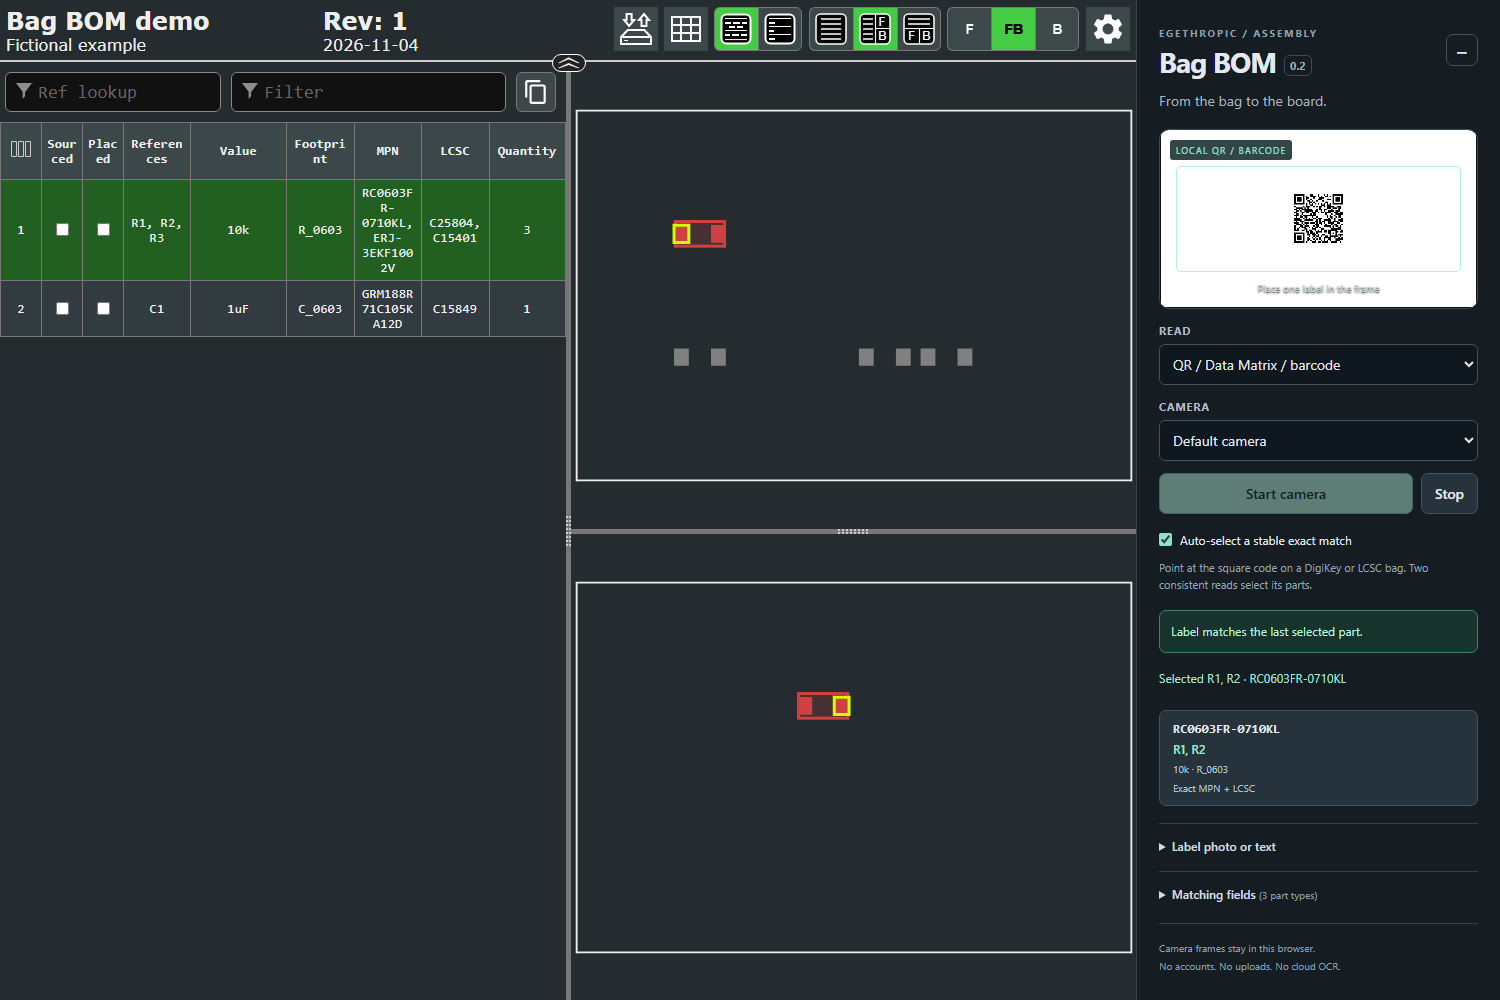
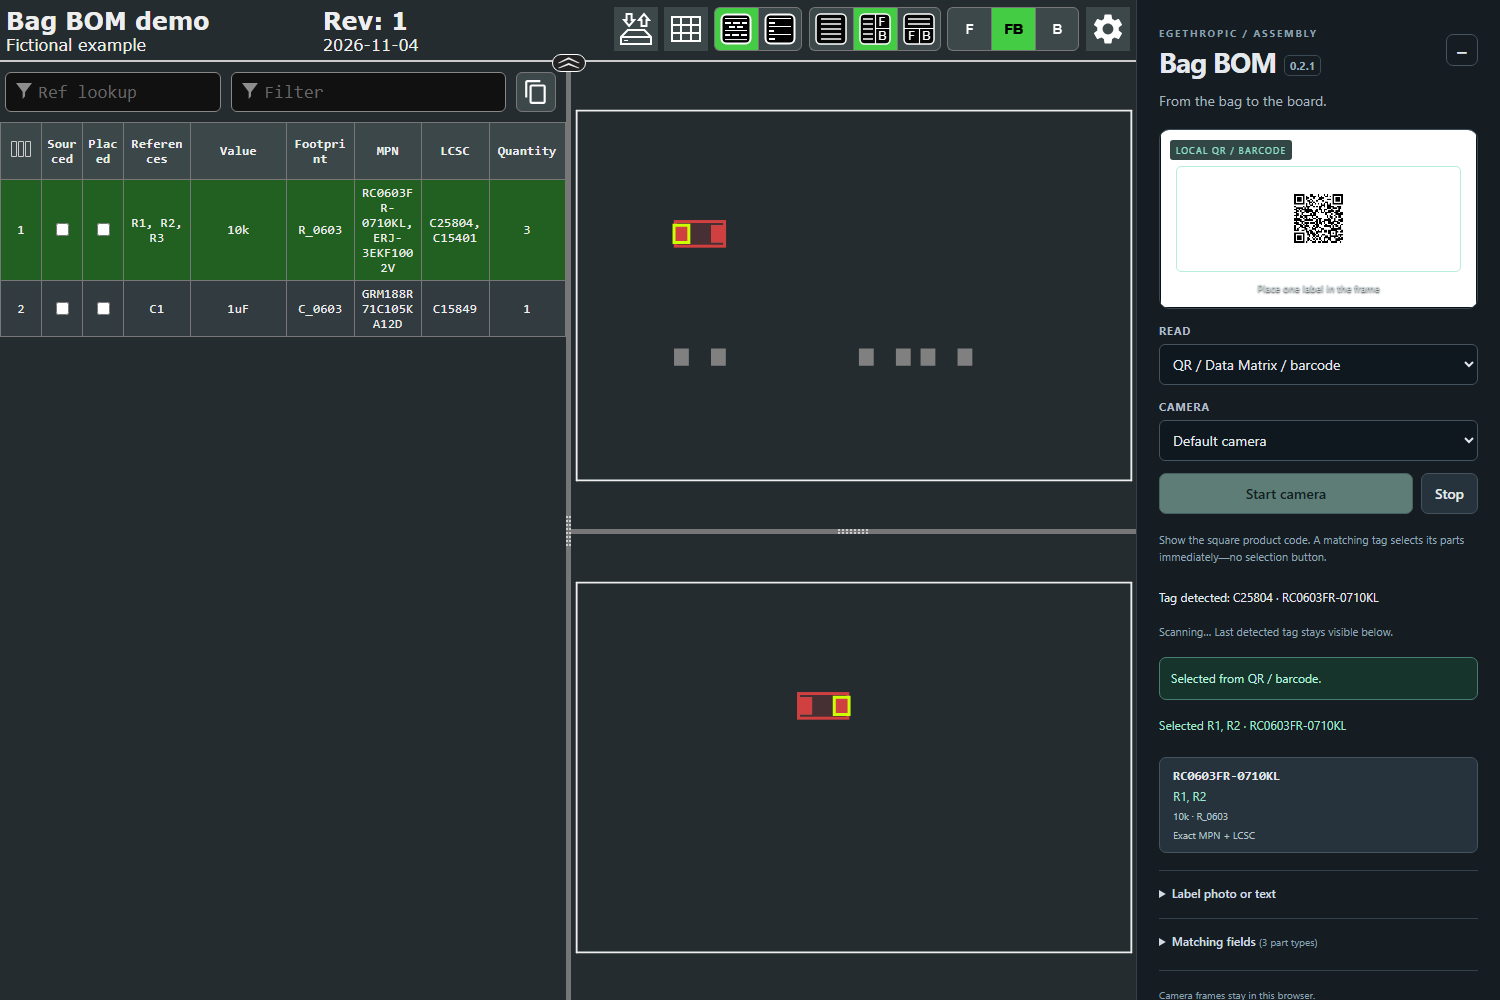
Select decoded tags immediately and retain detection feedback [skip ci]

Changed region(s): [[0.7667, 0.527, 1.0, 0.899], [0.7667, 0.93, 0.8893, 1.0]]

diff --git a/bag_bom/web/scanner.js b/bag_bom/web/scanner.js
@@ -9,7 +9,7 @@
   root.innerHTML = `
     <link rel="stylesheet" href="${base}scanner.css">
     <aside aria-label="Bag BOM scanner">
-      <header><div><small>EGETHROPIC / ASSEMBLY</small><h1>Bag BOM<span>0.2</span></h1></div>
+      <header><div><small>EGETHROPIC / ASSEMBLY</small><h1>Bag BOM<span>0.2.1</span></h1></div>
         <button id="collapse" class="icon" aria-label="Minimize scanner" title="Minimize scanner">−</button></header>
       <div id="body">
         <p class="intro">From the bag to the board.</p>
@@ -23,8 +23,10 @@
         <label class="field-label" for="camera">Camera</label>
         <select id="camera"><option value="">Default camera</option></select>
         <div class="actions"><button id="start" class="primary">Start camera</button><button id="stop" disabled>Stop</button></div>
-        <label class="toggle"><input type="checkbox" id="auto" checked> Auto-select a stable exact match</label>
-        <p class="hint">Point at the square code on a DigiKey or LCSC bag. Two consistent reads select its parts.</p>
+        <label class="toggle" id="auto-control" hidden><input type="checkbox" id="auto" checked> Auto-select stable OCR matches</label>
+        <p class="hint" id="mode-hint">Show the square product code. A matching tag selects its parts immediately—no selection button.</p>
+        <div id="detected" hidden></div>
+        <div id="scan-state" class="hint"></div>
         <div id="status" role="status" aria-live="polite">Loading the BOM…</div>
         <div id="selected" hidden></div>
         <div id="results" aria-label="Matching components"></div>
@@ -57,6 +59,7 @@
 
   let index = [], ready = false, stream = null, workerPromise = null;
   let epoch = 0, timer = null, busy = false, lastAuto = null;
+  let lastCodeStatus = null;
   let ocrQueue = Promise.resolve();
   let decoder = null, decodeId = 0;
   const decodeJobs = new Map();
@@ -67,6 +70,7 @@
     index = M.buildIndex(pcbdata, config.fields,
       [...$('fields').querySelectorAll('input:checked')].map(input => input.value));
     gate.reset(); lastAuto = null;
+    lastCodeStatus = null; $('detected').hidden = true;
     $('results').replaceChildren();
     $('field-count').textContent = `(${index.length} part types)`;
     setStatus(index.length ? `${index.length} part types ready. Start the camera or paste a label.` :
@@ -117,17 +121,24 @@
   }
   function showResult(text, {confidence = 100, live = false, barcode = false, payloads = [text]} = {}) {
     const result = barcode ? B.match(payloads, index) : M.match(text, index);
+    if (barcode) {
+      const typed = result.identifiers.filter(id => id.type !== 'any');
+      const ids = [...new Set((typed.length ? typed : result.identifiers).map(id => id.value))];
+      $('detected').hidden = false;
+      $('detected').textContent = `Tag detected: ${ids.length ? ids.join(' · ') : 'unrecognized product data'}`;
+    }
     $('results').replaceChildren();
     const matches = result.exact.length ? result.exact : result.suggestions;
     for (const {group, evidence} of matches.slice(0, 12)) {
-      const button = document.createElement('button'); button.className = 'candidate';
+      const automatic = barcode && result.status === 'unique';
+      const button = document.createElement(automatic ? 'div' : 'button'); button.className = 'candidate';
       const title = document.createElement('b'); title.textContent = evidence[0]?.value || group.ids[0].value;
       const refs = document.createElement('span'); refs.textContent = group.refs.map(r => r[0]).join(', ');
       const detail = document.createElement('small'); detail.textContent = `${group.value} · ${group.footprint}`;
       const reason = document.createElement('small'); reason.textContent = evidence.length ?
         `Exact ${evidence.map(item => item.field).join(' + ')}` : 'Similar text only — check label before selecting';
       button.append(title, refs, detail, reason);
-      button.addEventListener('click', () => { select(group); button.classList.add('chosen'); });
+      if (!automatic) button.addEventListener('click', () => { select(group); button.classList.add('chosen'); });
       $('results').append(button);
     }
     if (result.status === 'ambiguous') setStatus('Multiple matching part types. Choose the correct one below.', 'warning');
@@ -138,7 +149,15 @@
       'No exact match. Similar numbers below require your confirmation.' :
       'No exact part number found. Hold the label closer or check the matching fields.');
     else setStatus(live ? 'Exact match found. Hold steady for a second read.' : 'Exact match found. Select it below.');
-    if (live) {
+    if (barcode && result.status === 'unique') {
+      // Barcode checksums already validate a decoded tag. Select on its FIRST
+      // frame, independent of the optional OCR stability gate and toggle.
+      const group = result.exact[0].group;
+      const actual = new Set(window.highlightedFootprints || []);
+      if (lastAuto !== group.key || actual.size !== group.refs.length || group.refs.some(([, id]) => !actual.has(id))) {
+        select(group, 'Selected from QR / barcode.');
+      } else setStatus('Selected from QR / barcode.', 'success');
+    } else if (live && !barcode) {
       const stable = gate.observe(result, confidence);
       if (stable && $('auto').checked) {
         if (stable.key !== lastAuto) select(stable, barcode ? 'Selected from QR / barcode.' : true);
@@ -146,9 +165,8 @@
       } else if (result.status === 'unique' && confidence < 75) {
         setStatus('Exact text, but OCR confidence is low. Hold steady or select manually.', 'warning');
       }
-    } else if (barcode && result.status === 'unique' && $('auto').checked) {
-      select(result.exact[0].group, 'Selected from QR / barcode.');
     }
+    if (barcode) lastCodeStatus = {text: $('status').textContent, kind: $('status').dataset.kind};
     return result;
   }
   function releaseDecoder() {
@@ -179,10 +197,15 @@
   }
   function showCodes(codes, live = false) {
     if (!codes.length) {
-      gate.reset(); $('results').replaceChildren(); $('text').value = '';
-      setStatus('No QR / barcode detected yet. Keep the complete square code in focus inside the guide.');
+      gate.reset();
+      $('scan-state').textContent = live ? 'Scanning… Last detected tag stays visible below.' : 'No code found in this image.';
+      // A missed frame must not immediately erase a successful read or the
+      // explanation of why a decoded tag could not match the current board.
+      if (lastCodeStatus) setStatus(lastCodeStatus.text, lastCodeStatus.kind);
+      else setStatus('No QR / barcode detected yet. Keep the complete square code in focus in the camera view.');
       return;
     }
+    $('scan-state').textContent = live ? 'Scanning…' : 'Label image decoded.';
     const payloads = [...new Set(codes.map(code => code.text))];
     $('text').value = payloads.join('\n');
     showResult('', {barcode: true, payloads, live});
@@ -191,7 +214,7 @@
     const bitmap = await createImageBitmap(file);
     try {
       const canvas = document.createElement('canvas');
-      const scale = Math.min(1, 2560 / Math.max(bitmap.width, bitmap.height));
+      const scale = Math.min(1, 4096 / Math.max(bitmap.width, bitmap.height));
       canvas.width = Math.max(1, Math.round(bitmap.width * scale));
       canvas.height = Math.max(1, Math.round(bitmap.height * scale));
       canvas.getContext('2d').drawImage(bitmap, 0, 0, canvas.width, canvas.height);
@@ -256,10 +279,12 @@
     const video = $('video');
     if (!video.videoWidth) throw new Error('Camera has not produced a frame yet.');
     const canvas = document.createElement('canvas');
-    // Match the visible guide, excluding unrelated labels on the bench.
-    const sx = video.videoWidth * 0.05, sy = video.videoHeight * 0.2;
-    const sw = video.videoWidth * 0.9, sh = video.videoHeight * 0.6;
-    const scale = Math.min($('mode').value === 'ocr' ? 2 : 1, 1920 / sw);
+    // QR/Data Matrix require the complete symbol and border. Do not discard the
+    // outer camera area: large labels often put the square code near an edge.
+    const barcode = $('mode').value === 'barcode';
+    const sx = barcode ? 0 : video.videoWidth * 0.05, sy = barcode ? 0 : video.videoHeight * 0.2;
+    const sw = barcode ? video.videoWidth : video.videoWidth * 0.9, sh = barcode ? video.videoHeight : video.videoHeight * 0.6;
+    const scale = Math.min(barcode ? 1 : 2, (barcode ? 4096 : 1920) / sw);
     canvas.width = Math.round(sw * scale); canvas.height = Math.round(sh * scale);
     const ctx = canvas.getContext('2d');
     if ($('mode').value === 'ocr') ctx.filter = 'grayscale(1) contrast(1.25)';
@@ -309,6 +334,7 @@
       if (turn !== epoch) { media.getTracks().forEach(track => track.stop()); return; }
       stream = media; $('video').srcObject = media; await $('video').play();
       if (turn !== epoch) return;
+      root.querySelector('.viewfinder').style.aspectRatio = `${$('video').videoWidth} / ${$('video').videoHeight}`;
       $('camera-off').hidden = true;
       media.getVideoTracks()[0].addEventListener('ended', () => { if (turn === epoch) stopCamera('Camera disconnected. Reconnect it and start again.'); });
       await enumerateCameras();
@@ -326,6 +352,11 @@
     const restart = !!stream;
     stopCamera(null); releaseWorker();
     $('scan-badge').textContent = $('mode').value === 'barcode' ? 'LOCAL QR / BARCODE' : 'LOCAL OCR';
+    $('auto-control').hidden = $('mode').value === 'barcode';
+    $('mode-hint').textContent = $('mode').value === 'barcode' ?
+      'Show the square product code. A matching tag selects its parts immediately—no selection button.' :
+      'Printed text needs two consistent, confident reads. Ambiguous matches stay manual.';
+    $('detected').hidden = true; $('scan-state').textContent = ''; lastCodeStatus = null;
     $('results').replaceChildren(); $('text').value = '';
     if (restart) startCamera();
     else setStatus('Ready. Start the camera or choose a label image.');

diff --git a/bag_bom/web/scanner.css b/bag_bom/web/scanner.css
@@ -21,6 +21,8 @@ select,textarea{width:100%;border:1px solid #44535e;border-radius:6px;background
 #status{border:1px solid #374a56;border-radius:7px;background:#1d2b35;font-size:12px;line-height:1.6;padding:11px;margin:16px 0 12px}
 #status[data-kind=success]{border-color:#497d6f;color:#b7f3df;background:#16342c}#status[data-kind=warning]{border-color:#806641;background:#342b1d;color:#edd5a9}#status[data-kind=error]{border-color:#90585c;background:#382326;color:#f3c4c4}
 #selected{font-size:12px;line-height:1.5;color:#a1e8ce;padding:4px 0 14px;overflow-wrap:anywhere}
+#detected{font-size:12px;line-height:1.6;color:#e4e9ed;padding:10px 0;overflow-wrap:anywhere}
+.candidate:not(button){border:1px solid #44535e;border-radius:7px;padding:10px 13px;background:#26333d;color:#e4e9ed}
 .candidate{display:flex;flex-direction:column;width:100%;text-align:left;gap:5px;margin:9px 0;overflow-wrap:anywhere}.candidate b{font:600 13px ui-monospace,monospace}.candidate span{font-size:12px;color:#a1e8ce}.candidate small{font-size:10px;color:#b7c4cc;font-weight:400}.candidate.chosen{border-color:#8de2c9}
 details{border-top:1px solid #33414a;margin-top:17px;padding-top:14px}summary{cursor:pointer;font-size:12px;color:#d1dce3;font-weight:600}summary span{font-weight:400;color:#8ba1af;font-size:10px}#match{margin-top:8px;width:100%}footer{font-size:10px;color:#8ba1af;line-height:1.8;border-top:1px solid #33414a;margin-top:21px;padding-top:15px}
 :host(.bag-bom-mini) aside{padding:12px}:host(.bag-bom-mini) h1{font-size:21px}:host(.bag-bom-mini) header small,:host(.bag-bom-mini) h1 span{display:none}

diff --git a/scripts/make_fixture.py b/scripts/make_fixture.py
@@ -94,11 +94,11 @@ print(f'Generated fixture and OCR labels in {OUT}')
 # Real machine-readable codes with fictional payloads for the barcode decoder.
 import subprocess
 subprocess.run(['node', str(ROOT / 'scripts/make_barcode_fixtures.cjs')], check=True)
-for name in ('lcsc-qr', 'digikey-dm'):
+for name in ('lcsc-qr', 'digikey-dm', 'lcsc-qr-edge'):
     frame_image = Image.new('RGB', (1280, 720), 'white')
-    code = Image.open(OUT / (name + '.png')).convert('RGB')
+    code = Image.open(OUT / (name.replace('-edge', '') + '.png')).convert('RGB')
     code.thumbnail((340, 340), Image.Resampling.NEAREST)
-    frame_image.paste(code, ((1280 - code.width) // 2, (720 - code.height) // 2))
+    frame_image.paste(code, (20, 20) if name.endswith('-edge') else ((1280 - code.width) // 2, (720 - code.height) // 2))
     frame_image.save(OUT / (name + '-frame.png'))
     gray = frame_image.convert('L').point(lambda n: round(16 + n * 219 / 255)).tobytes()
     with (OUT / (name + '.y4m')).open('wb') as output:

diff --git a/README.md b/README.md
@@ -7,14 +7,14 @@
 [![Tests](https://github.com/egethropic/bag-bom/actions/workflows/test.yml/badge.svg)](https://github.com/egethropic/bag-bom/actions/workflows/test.yml)
 
 Bag BOM is a KiCad companion plugin from **egethropic**. Hold the **QR or Data
-Matrix code on a DigiKey or LCSC bag** in front of your webcam. Two consistent
-decoded reads select the matching components and highlight their placements
+Matrix code on a DigiKey or LCSC bag** in front of your webcam. The first successful
+decode selects matching components immediately and highlights their placements
 in your InteractiveHtmlBom viewer, including parts on both sides of the board.
 Printed-text OCR remains available as an explicit fallback.
 
 ![Bag BOM scanning a synthetic QR label](docs/scanner.png)
 
-**Experimental v0.2.0.** Tested with real barcode decoding of synthetic QR/Data
+**Experimental v0.2.1.** Tested with real barcode decoding of synthetic QR/Data
 Matrix images and simulated cameras, plus two published DigiKey label photos.
 A third published photo failed decoding. Physical webcams, glare, crumpled bags,
 small codes, and your actual parts still need bench validation. Check the highlighted part
@@ -24,7 +24,7 @@ before soldering. Bag BOM selects parts; it never marks them as placed.
 
 1. Install [InteractiveHtmlBom](https://github.com/openscopeproject/InteractiveHtmlBom/wiki/Installation)
    separately in KiCad.
-2. Download `bag-bom-0.2.0-pcm.zip` from
+2. Download `bag-bom-0.2.1-pcm.zip` from
    [Releases](https://github.com/egethropic/bag-bom/releases).
 3. In KiCad's **Plugin and Content Manager → Install from File**, select that ZIP.
 4. Restart the PCB Editor or refresh its action plugins.
@@ -37,7 +37,7 @@ KiCad 10.0.8 on Windows is the locally checked Python runtime. Linux/macOS and
 KiCad 9 are intended targets, not yet manually verified. KiCad 11+ IPC support
 is not included. This project is not yet in KiCad's official plugin catalog.
 
-Manual alternative: extract `bag-bom-0.2.0-manual.zip` so the `bag_bom` folder
+Manual alternative: extract `bag-bom-0.2.1-manual.zip` so the `bag_bom` folder
 sits inside your KiCad user scripting plugins directory. Avoid installing both
 the manual and PCM copies.
 
@@ -52,9 +52,15 @@ the manual and PCM copies.
 3. Launch Bag BOM and choose that `ibom.html`. It opens in your default browser.
 4. Select your webcam, click **Start camera**, and allow the browser's camera
    permission. Leave **QR / Data Matrix / barcode** selected. Keep the complete
-   square product code, including its white border, in focus inside the guide.
-5. A unique exact match in two consecutive decoded frames selects
-   its footprints automatically. Disable **Auto-select** to choose manually.
+   square product code, including its white border, in focus in the camera view.
+5. A unique exact match selects its footprints immediately on the first decoded
+   frame. No selection button or auto-select toggle is needed in barcode mode.
+   The full camera frame is scanned, including codes near its edges.
+
+**Tag detected** keeps the last decoded part number visible. When that identifier
+is absent from the current BOM, an explicit no-match message stays visible even
+if subsequent frames miss the code. Detection cannot select a part that is not
+present in the loaded board.
 
 The scanner highlights matching **footprint IDs**, never substring search
 results. It switches the viewer to the relevant side(s) and clears BOM filters
@@ -76,11 +82,11 @@ digits are excluded from automatic matching in this version.
 
 **Label photo or text** accepts a code image or a USB barcode scanner acting as a
 keyboard. In barcode mode, a decoded image or Enter-submitted exact identifier
-auto-selects when Auto-select is enabled. Multiple codes are evaluated together;
+auto-selects immediately. Multiple codes are evaluated together;
 different matching parts are never selected automatically.
 
 Choose **Printed text (OCR fallback)** for labels without a readable code.
-Live OCR requires two reads at confidence ≥75; OCR image/text results require a
+Live OCR requires two reads at confidence ≥75 and its Auto-select option enabled; OCR image/text results require a
 click. Similar OCR strings are suggestions only; `O`/`0` substitutions and missing
 suffixes never trigger automatic selection. A failed barcode read does not
 silently fall back to OCR.

diff --git a/CHANGELOG.md b/CHANGELOG.md
@@ -1,5 +1,15 @@
 # Changelog
 
+## 0.2.1 — 2026-11-04
+
+- Matching QR/Data Matrix tags select immediately on the first successful decode,
+  with no selection button or OCR toggle dependency.
+- Scan the full camera frame so codes near the edges are not cropped out.
+- Keep the detected part number and no-match explanation visible across missed
+  frames; preserve higher resolution for saved label images.
+- Restore the matching highlight if it was cleared while the same tag is visible.
+- Regression tests cover a single decoded frame followed by misses and an edge-positioned code.
+
 ## 0.2.0 — 2026-11-04
 
 - QR / Data Matrix scanning is the default, with offline ZXing decoding in a worker.
